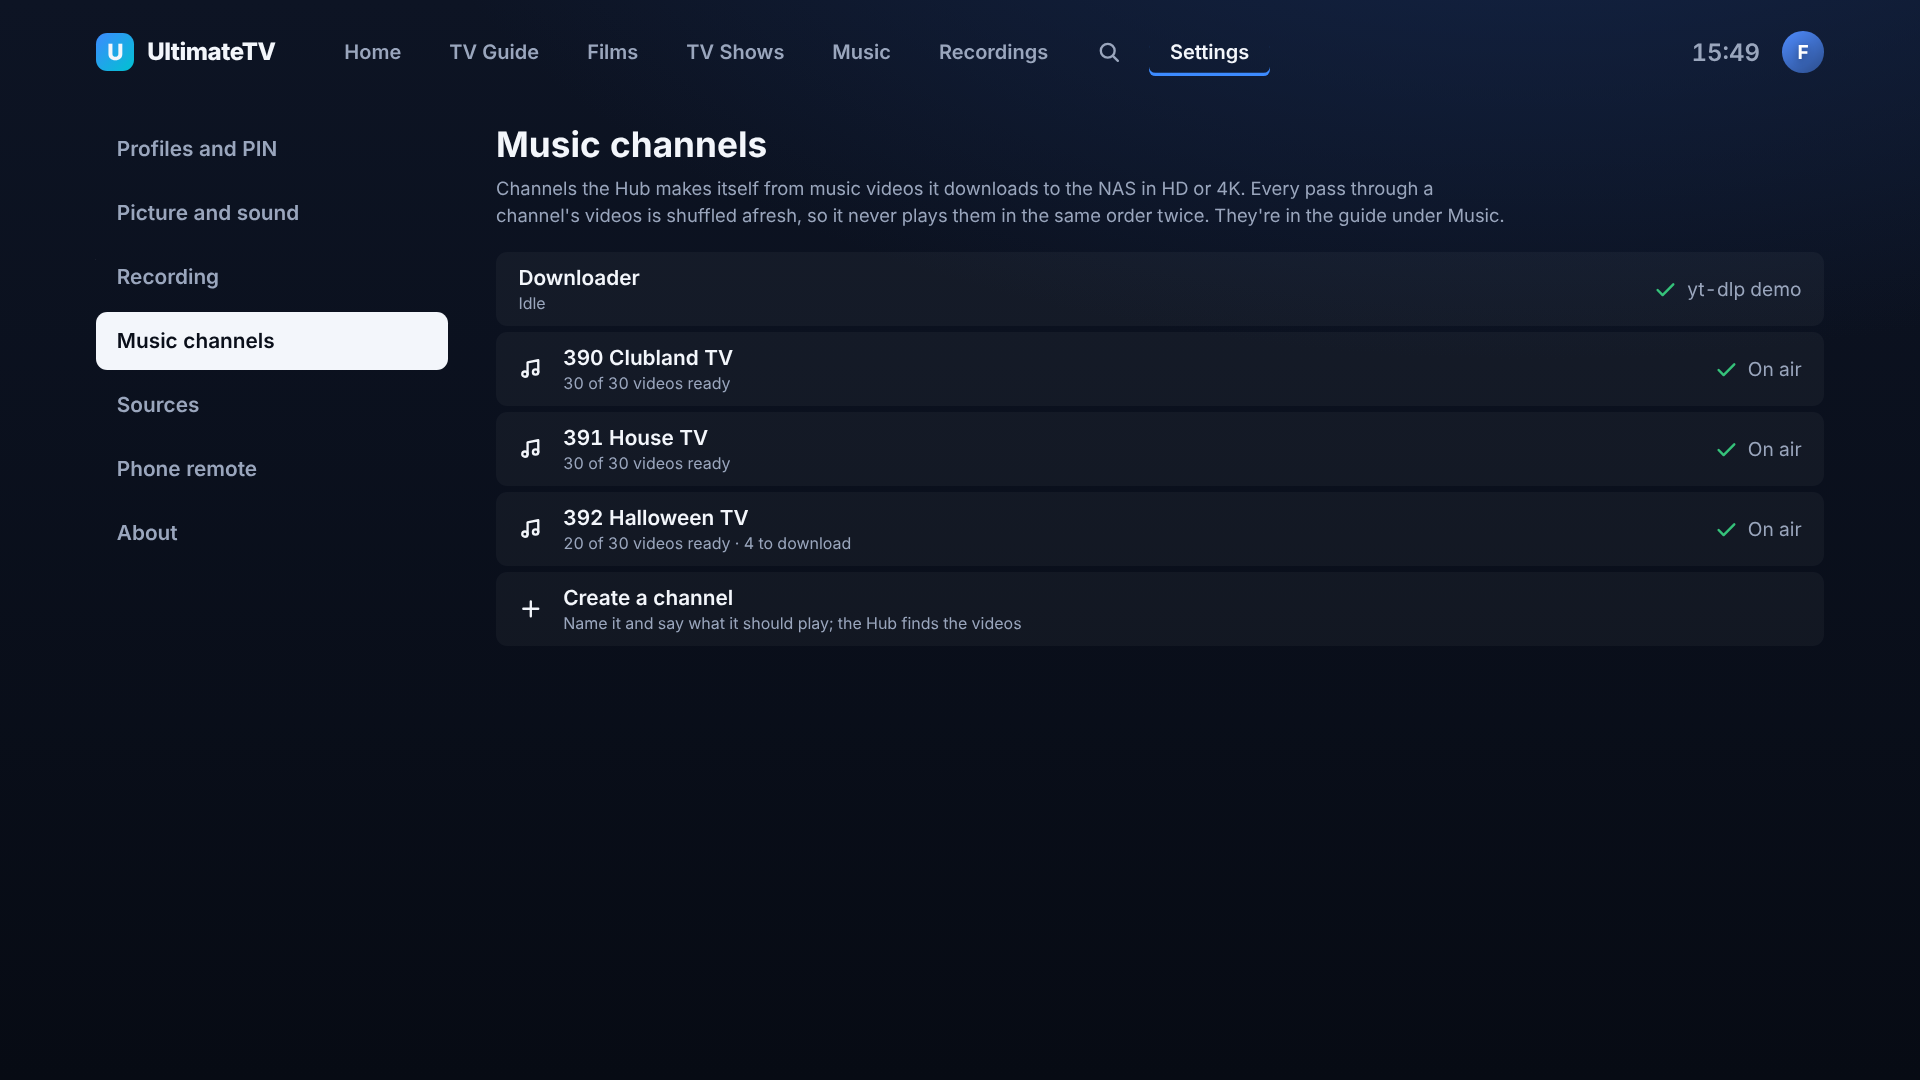
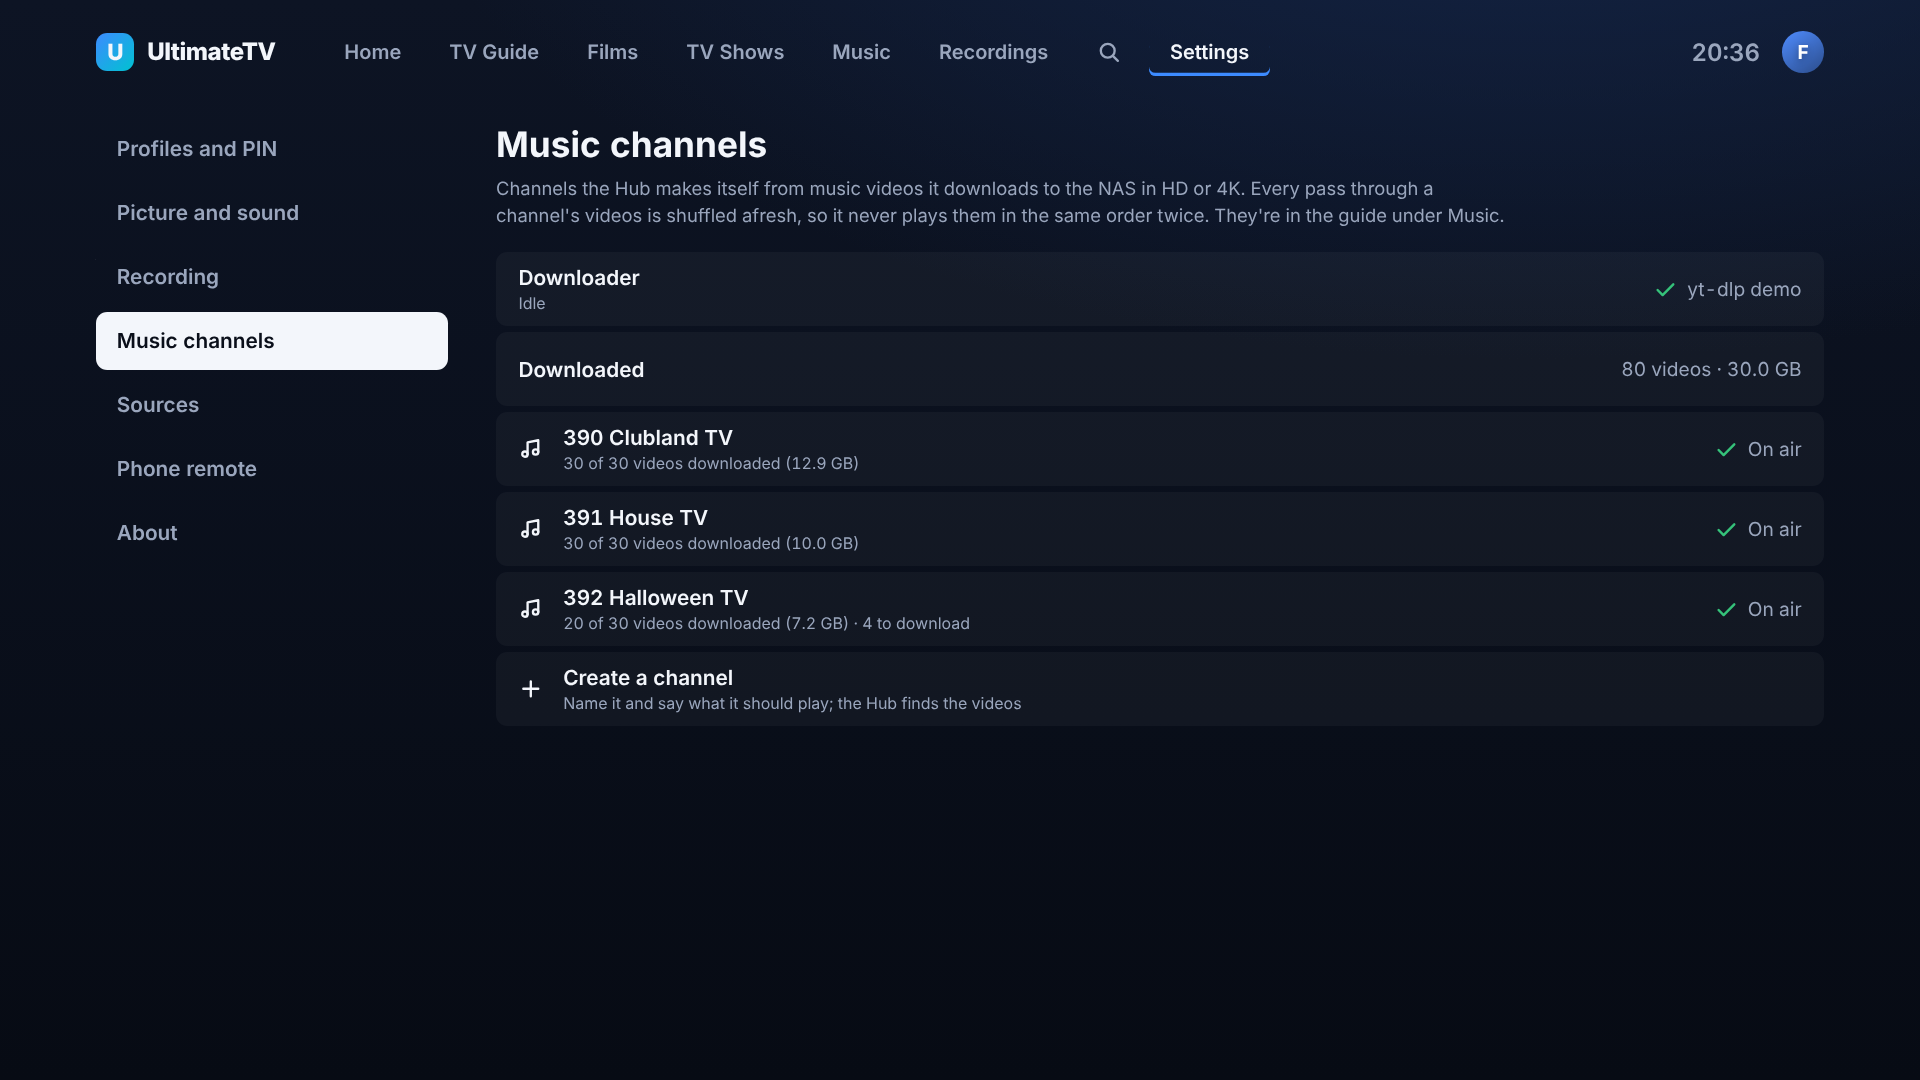
Music channels: show downloaded videos and their storage (#32)
Per channel and in total (a video on two channels counts once), in the TV's
Music channels settings and About, and at the top of the phone's settings.

Claude-Session: https://claude.ai/code/session_01XzXh21qwPKjEoDkzjVqHfy

diff --git a/ui/src/screens/Settings.tsx b/ui/src/screens/Settings.tsx
@@ -3,7 +3,7 @@
 
 import { createResource, createSignal, For, Show, type JSX } from "solid-js";
 import type { Certification, MixChannelInfo, Profile, PublicSettings } from "@ultimatetv/shared";
-import { CERTIFICATIONS } from "@ultimatetv/shared";
+import { CERTIFICATIONS, formatBytes } from "@ultimatetv/shared";
 import { agent, agentHas } from "../agent";
 import { hub } from "../api";
 import { askPin, askText, choose, confirm } from "../components/Dialog";
@@ -51,7 +51,7 @@ export function Settings(props: { section?: string }) {
   const [box] = createResource(() => agent.info());
   const [section, setSection] = createSignal(props.section ?? "profiles");
   const [mix, { refetch: refetchMix }] = createResource(
-    () => section() === "music",
+    () => section() === "music" || section() === "about",
     (open) => (open ? hub.mixChannels().catch(() => null) : Promise.resolve(null)),
   );
   let mixTimer: number | undefined;
@@ -274,6 +274,11 @@ export function Settings(props: { section?: string }) {
                       hint={m().working ?? (m().downloader.ok ? "Idle" : undefined)}
                       value={<Status ok={m().downloader.ok} text={m().downloader.ok ? `yt-dlp ${m().downloader.version ?? ""}` : (m().downloader.error ?? "Not working")} />}
                     />
+                    <Row
+                      label="Downloaded"
+                      hint={m().diskFreeBytes !== undefined ? `${formatBytes(m().diskFreeBytes!)} free on the NAS` : undefined}
+                      value={`${m().totals.ready} video${m().totals.ready === 1 ? "" : "s"} · ${formatBytes(m().totals.bytes)}`}
+                    />
                     <For each={m().channels}>
                       {(c) => {
                         const waiting = c.counts.queued + c.counts.downloading;
@@ -281,7 +286,7 @@ export function Settings(props: { section?: string }) {
                           <Row
                             label={`${c.number}  ${c.name}`}
                             icon="music"
-                            hint={[`${c.counts.ready} of ${c.target} videos ready`, waiting ? `${waiting} to download` : "", c.enabled ? "" : "turned off", c.error ?? ""].filter(Boolean).join(" · ")}
+                            hint={[`${c.counts.ready} of ${c.target} videos downloaded (${formatBytes(c.readyBytes)})`, waiting ? `${waiting} to download` : "", c.enabled ? "" : "turned off", c.error ?? ""].filter(Boolean).join(" · ")}
                             value={<Status ok={c.enabled && c.counts.ready > 0} text={c.counts.ready ? "On air" : waiting ? "Filling up" : "No videos"} />}
                             onSelect={() => openMix(c)}
                           />
@@ -289,9 +294,6 @@ export function Settings(props: { section?: string }) {
                       }}
                     </For>
                     <Row label="Create a channel" icon="plus" hint="Name it and say what it should play; the Hub finds the videos" onSelect={() => void createMix()} />
-                    <Show when={m().diskFreeBytes !== undefined}>
-                      <Row label="Space on the NAS" value={`${Math.round(m().diskFreeBytes! / 1024 ** 3)} GB free`} />
-                    </Show>
                   </>
                 )}
               </Show>
@@ -377,6 +379,9 @@ export function Settings(props: { section?: string }) {
               <Row label="TV remote (HDMI-CEC)" value={<Status ok={Boolean(box()?.cec?.connected)} text={box()?.cec?.connected ? "Connected" : "Not connected"} />} />
               <Show when={status()?.diskTotalBytes}>
                 <Row label="NAS space" value={`${Math.round((status()!.diskFreeBytes ?? 0) / 1024 ** 3)} GB free of ${Math.round(status()!.diskTotalBytes! / 1024 ** 3)} GB`} />
+              </Show>
+              <Show when={mix()}>
+                {(m) => <Row label="Music videos" hint={m().channels.map((c) => `${c.name} ${c.counts.ready} (${formatBytes(c.readyBytes)})`).join(" · ")} value={`${m().totals.ready} · ${formatBytes(m().totals.bytes)}`} />}
               </Show>
               <Row label="Reload the app" icon="restart" onSelect={() => void agent.reload()} />
             </Show>

diff --git a/hub/public/setup/index.html b/hub/public/setup/index.html
@@ -41,7 +41,7 @@
   #toast { position: fixed; left: 16px; right: 16px; bottom: max(16px, env(safe-area-inset-bottom)); max-width: 608px; margin: 0 auto; padding: 14px 16px; border-radius: 12px; background: #1d2a44; border: 1px solid var(--line); transform: translateY(150%); transition: transform .25s ease; }
   #toast.show { transform: none; }
   #toast.bad { border-color: var(--bad); }
-  .status { display: grid; grid-template-columns: repeat(3, 1fr); gap: 8px; }
+  .status { display: grid; grid-template-columns: repeat(2, 1fr); gap: 8px; }
   .stat { background: #0d1526; border-radius: 10px; padding: 10px; text-align: center; }
   .stat b { display: block; font-size: 20px; }
   .stat span { font-size: 12px; color: var(--muted); }
@@ -94,6 +94,7 @@
       <div class="stat"><b id="st-channels">–</b><span>channels</span></div>
       <div class="stat"><b id="st-programmes">–</b><span>guide entries</span></div>
       <div class="stat"><b id="st-connections">–</b><span>IPTV connections</span></div>
+      <div class="stat"><b id="st-mix">–</b><span id="st-mix-size">music videos</span></div>
     </div>
   </section>
 
@@ -344,7 +345,12 @@ async function loadMix() {
   const o = await api("/api/mix-channels");
   $("#mix-pill").textContent = o.downloader.ok ? `yt-dlp ${o.downloader.version || ""}`.trim() : "Downloader broken";
   $("#mix-pill").className = "pill" + (o.downloader.ok ? " ok" : " bad");
-  $("#mix-working").textContent = [o.working, !o.downloader.ok && o.downloader.error, o.diskFreeBytes ? `${Math.round(o.diskFreeBytes / 1e9)} GB free.` : ""].filter(Boolean).join(" · ");
+  const size = (b) => (b >= 1024 ** 3 ? `${(b / 1024 ** 3).toFixed(1)} GB` : `${Math.round(b / 1024 ** 2)} MB`);
+  $("#mix-working").textContent = [o.totals && `${o.totals.ready} videos downloaded (${size(o.totals.bytes)})`, o.working, !o.downloader.ok && o.downloader.error, o.diskFreeBytes ? `${size(o.diskFreeBytes)} free on the NAS.` : ""].filter(Boolean).join(" · ");
+  if (o.totals) {
+    $("#st-mix").textContent = o.totals.ready;
+    $("#st-mix-size").textContent = `music videos · ${size(o.totals.bytes)}`;
+  }
   const list = $("#mix-list");
   list.innerHTML = "";
   for (const c of o.channels) {
@@ -357,7 +363,7 @@ async function loadMix() {
     name.querySelector(".avatar").textContent = String(c.number);
     name.querySelector(".pname").textContent = c.name;
     const n = c.counts;
-    name.querySelector("small").textContent = [`${n.ready} of ${c.target} videos ready`, n.downloading + n.queued ? `${n.downloading + n.queued} downloading` : "", n.failed ? `${n.failed} failed` : "", c.enabled ? "" : "off"].filter(Boolean).join(" · ");
+    name.querySelector("small").textContent = [`${n.ready} of ${c.target} videos downloaded (${size(c.readyBytes || 0)})`, n.downloading + n.queued ? `${n.downloading + n.queued} downloading` : "", n.failed ? `${n.failed} failed` : "", c.enabled ? "" : "off"].filter(Boolean).join(" · ");
     row.append(name);
     if (c.brief) { const b = document.createElement("p"); b.className = "hint"; b.style.margin = "4px 0 0"; b.textContent = c.brief; row.append(b); }
     if (c.error) { const e = document.createElement("p"); e.className = "mix-err"; e.textContent = c.error; row.append(e); }

diff --git a/hub/src/mixchannels.ts b/hub/src/mixchannels.ts
@@ -379,12 +379,22 @@ export class MixManager {
 
   info(c: MixChannel): MixChannelInfo {
     const counts: Record<MixVideoStatus, number> = { queued: 0, downloading: 0, ready: 0, failed: 0 };
-    for (const e of this.store.entries(c.id)) counts[e.video.status]++;
-    return { ...c, counts, channelId: c.id };
+    let readyBytes = 0;
+    for (const e of this.store.entries(c.id)) {
+      counts[e.video.status]++;
+      if (e.video.status === "ready") readyBytes += e.video.sizeBytes ?? 0;
+    }
+    return { ...c, counts, readyBytes, channelId: c.id };
   }
 
   async overview(): Promise<MixOverview> {
-    const out: MixOverview = { channels: this.store.channels().map((c) => this.info(c)), downloader: this.downloader };
+    const ready = new Map<string, number>();
+    for (const c of this.store.channels()) for (const e of this.store.entries(c.id)) if (e.video.status === "ready") ready.set(e.video.id, e.video.sizeBytes ?? 0);
+    const out: MixOverview = {
+      channels: this.store.channels().map((c) => this.info(c)),
+      downloader: this.downloader,
+      totals: { ready: ready.size, bytes: [...ready.values()].reduce((a, b) => a + b, 0) },
+    };
     const working = [this.busy.curate, this.busy.download].filter(Boolean).join(" · ");
     if (working) out.working = working;
     try {

diff --git a/hub/src/demo.ts b/hub/src/demo.ts
@@ -369,16 +369,19 @@ function seedDemoMix(ctx: HubContext, clipUrl: string, now: number): void {
       const id = `demo${hash(pick)}`;
       const status = c.id === "mix:halloween-tv" && i >= 20 ? (i === 23 ? "downloading" : "queued") : "ready";
       if (!mix.store.video(id)) {
+        const durationS = 180 + Math.floor(r() * 120);
+        const height = r() > 0.4 ? 2160 : 1080;
         mix.store.saveVideo({
           id,
           url: `https://www.youtube.com/watch?v=${id}`,
           title: `${pick} (Official Video)`,
           ...(artist && track ? { artist, track } : {}),
           uploader: `${artist ?? "Artist"}VEVO`,
-          durationS: 180 + Math.floor(r() * 120),
-          height: r() > 0.4 ? 2160 : 1080,
+          durationS,
+          height,
           status,
-          ...(status === "ready" ? { path: file } : {}),
+          // About what YouTube's VP9/AV1 runs to: 4K near 2.5 MB a second, 1080p near 0.6.
+          ...(status === "ready" ? { path: file, sizeBytes: Math.round(durationS * (height >= 2160 ? 2.5e6 : 0.6e6)) } : {}),
           ...(status === "downloading" ? { progress: 0.62 } : {}),
           addedAt: now - 2 * 86_400_000 + i,
         });

diff --git a/hub/test/mix.test.ts b/hub/test/mix.test.ts
@@ -246,6 +246,10 @@ describe("music video channels over the API", () => {
     const list = (await app.inject({ url: "/api/mix-channels", headers: family })).json<MixOverview>();
     expect(list.channels.map((c) => c.name)).toEqual(["Clubland TV", "House TV", "Halloween TV"]);
     expect(list.channels[0]!.counts.ready).toBeGreaterThan(20);
+    // Storage per channel and in total; a video on two channels counts once.
+    expect(list.channels[0]!.readyBytes).toBeGreaterThan(0);
+    expect(list.totals.ready).toBeLessThanOrEqual(list.channels.reduce((n, c) => n + c.counts.ready, 0));
+    expect(list.totals.bytes).toBeGreaterThanOrEqual(list.channels[0]!.readyBytes);
     const res = await app.inject({ method: "POST", url: "/api/play", headers: family, payload: { kind: "channel", id: "mix:clubland-tv" } });
     expect(res.statusCode).toBe(200);
     const info = res.json<PlaybackInfo>();

diff --git a/shared/src/domain.ts b/shared/src/domain.ts
@@ -670,6 +670,8 @@ export interface MixEntry {
 
 export interface MixChannelInfo extends MixChannel {
   counts: Record<MixVideoStatus, number>;
+  /** Space the channel's downloaded videos take on the NAS. */
+  readyBytes: number;
   /** The guide channel's id (mix:…). */
   channelId: Id;
 }
@@ -699,4 +701,6 @@ export interface MixOverview {
   working?: string;
   /** Free space where the videos are kept. */
   diskFreeBytes?: number;
+  /** Downloaded videos across every channel (a video on two channels counts once), and their size. */
+  totals: { ready: number; bytes: number };
 }

diff --git a/CHANGELOG.md b/CHANGELOG.md
@@ -15,6 +15,8 @@ the commit they were built from in Settings › About, so you can tell exactly w
 
 ## Unreleased
 
+- Settings shows how many music videos have downloaded and the space they take, per channel and
+  in total: on the TV (Music channels and About) and at the top of the phone's settings page.
 - Music video channels fill the screen: black bars baked into a video are cropped off, and any
   other shape is zoomed to fill. A caption at the bottom shows the artist and song as each video
   starts, and what's coming up next for its last five seconds. Needs a Hub and a box update.
